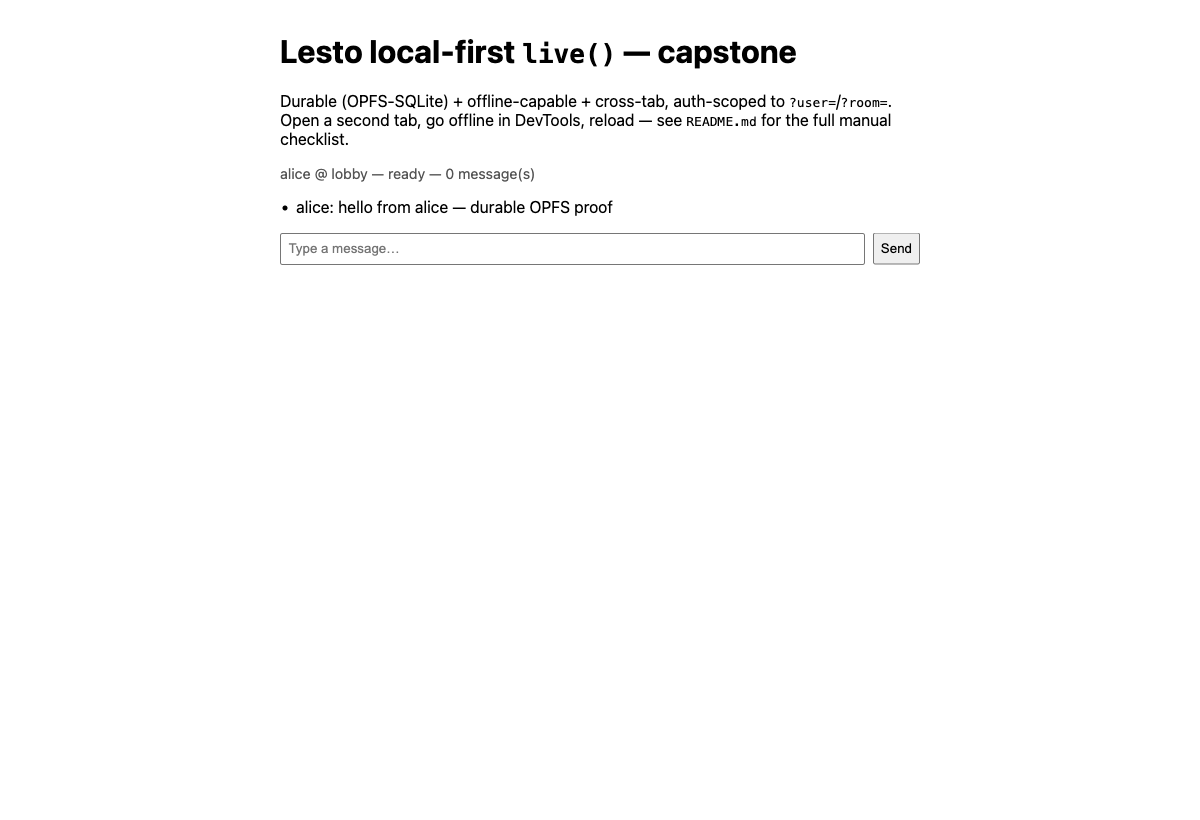
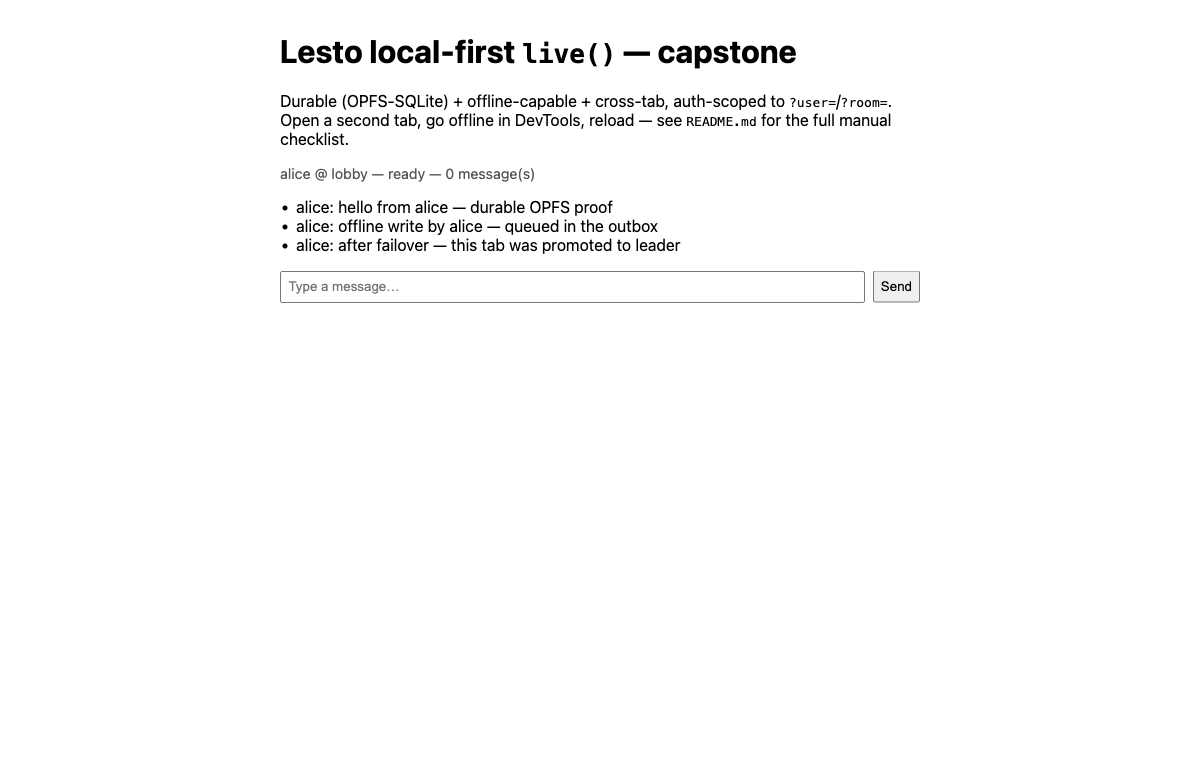
docs(live): correct capstone durability claims (flash-of-empty first paint, offline-reload boundary, filed-not-live CI gate) + regenerate genuine blocked-route evidence with a network-log proof

diff --git a/examples/live-capstone/test/acceptance.pg.ts b/examples/live-capstone/test/acceptance.pg.ts
@@ -16,10 +16,13 @@
  *        bun examples/live-capstone/test/acceptance.pg.ts
  *
  * Exits 0 on success, 1 on any failed assertion (so CI gates on it). CI wires this as the
- * `live-capstone-acceptance` job. The browser-only guarantees (OPFS durability across reload, the
- * cross-tab BroadcastChannel relay + failover) are proven by `@lesto/live`'s injected-seam unit tests
- * + the manual browser checklist in `README.md` — the ratified fork-A scope; this gate proves the
- * server/wire half AND drives the REAL client store/outbox/consumer for the offline-reconcile leg.
+ * `live-capstone-acceptance` job. This gate proves the server/wire half AND drives the REAL client
+ * store/outbox/consumer for the offline-reconcile leg — but over Node SQLite (`openSqlite`), NOT the
+ * browser OPFS engine. The genuinely browser-only guarantees (the OPFS engine opening + durability
+ * across a real reload, the cross-tab BroadcastChannel relay + failover) are the BROWSER's job: the
+ * `@lesto/live` injected-seam unit tests prove the coordination LOGIC, and the recorded manual run
+ * (`evidence/`) + the FILED headless-browser smoke `L-2e410682` (not yet in CI) prove the engine —
+ * the ratified fork-A scope, corrected after the Inc9 P0 (the OPFS engine had never run in a browser).
  */
 
 import { rm } from "node:fs/promises";
@@ -464,8 +467,9 @@ async function main(): Promise<void> {
 
     // ---- 8. Reload rebuild (real store logic over Node SQLite, no live echo — deterministic) ------
     // NB: this reopens the store over `openSqlite` (Node has no OPFS), so it exercises the store's
-    // rehydration LOGIC, not the browser OPFS engine — that engine is covered by the browser smoke
-    // (L-2e410682) and the recorded evidence run. The logic above the handle is identical either way.
+    // rehydration LOGIC, not the browser OPFS engine — that engine is covered by the recorded evidence
+    // run and the FILED browser smoke L-2e410682 (not yet in CI). The logic above the handle is
+    // identical either way.
     // 8a: a PENDING offline write survives reload and re-queues.
     const pendingFile = tmpFile();
     tmpFiles.push(pendingFile);

diff --git a/packages/live/vitest.config.ts b/packages/live/vitest.config.ts
@@ -24,16 +24,12 @@ export default defineConfig({
       // `opfs-sqlite.ts` (spawns a real `Worker`) and `opfs-worker.ts` (dynamic-imports
       // `@sqlite.org/sqlite-wasm` and installs the OPFS SAHPool VFS — Worker-only) are
       // coverage-excluded like `@lesto/runtime`'s `sqlite-drivers.ts`: browser-only wiring that
-      // cannot run under Node/vitest. Everything they decide is tested elsewhere — the request
-      // correlation in `opfs-rpc.ts` (`test/opfs-rpc.test.ts`) and the atomic rows+cursor
-      // transaction in `sqlite-store.ts` against `openSqlite`. No exclusion without a real gate:
-      // the end-to-end browser boot of these two is covered by the Playwright smoke (L-2e410682).
-      exclude: [
-        "src/index.ts",
-        "src/opfs-sqlite.ts",
-        "src/opfs-worker.ts",
-        "**/live-protocol/**",
-      ],
+      // cannot run under Node/vitest. The request correlation they rely on IS tested — `opfs-rpc.ts`
+      // (`test/opfs-rpc.test.ts`), and the atomic rows+cursor transaction in `sqlite-store.ts`
+      // against `openSqlite`. Their end-to-end browser boot is NOT yet in CI: it has one recorded
+      // manual run (`examples/live-capstone/evidence/`) and a FILED headless-browser smoke gate
+      // (`L-2e410682`) not yet built — until that lands, these two exclusions rest on the manual run.
+      exclude: ["src/index.ts", "src/opfs-sqlite.ts", "src/opfs-worker.ts", "**/live-protocol/**"],
       thresholds: {
         lines: 100,
         functions: 100,

diff --git a/examples/live-durable/src/main.ts b/examples/live-durable/src/main.ts
@@ -15,9 +15,11 @@
  * Two payoffs to see by hand:
  *   1. Durable first paint — on reload `render()` paints whatever the store hydrated from OPFS
  *      before the network reconnects.
- *   2. Offline writes — go offline (DevTools → Network → Offline), add a note (it appears
- *      instantly and, on reload, is STILL there — the outbox persisted it), then go back online and
- *      watch it drain to the server and reconcile as the authoritative row under the same id.
+ *   2. Offline writes — go offline (DevTools → Network → Offline), add a note (it appears instantly
+ *      and is durably logged to the OPFS outbox), then go back online and watch it drain to the server
+ *      and reconcile as the authoritative row under the same id. (A reload while FULLY offline can't
+ *      re-fetch the app shell — no service worker ships here — so the reload-survival of a pending
+ *      write is a durable-store property, demonstrable once the shell is reachable.)
  */
 
 import { createLiveMutations, createLiveQuery, createSqliteLiveStore } from "@lesto/live";
@@ -111,7 +113,9 @@ async function main(): Promise<void> {
   // Paint immediately from whatever the durable store hydrated — the authorized slice AND any
   // offline writes the outbox just re-applied — before the live stream below has reconnected.
   render();
-  setStatus(`Ready — ${query.getSnapshot().length} note(s) loaded (${mutations.pending()} pending).`);
+  setStatus(
+    `Ready — ${query.getSnapshot().length} note(s) loaded (${mutations.pending()} pending).`,
+  );
   query.subscribe(render);
 
   // Drain now (an offline write from a prior session may be waiting) and on every reconnect.

diff --git a/examples/live-capstone/vite.config.ts b/examples/live-capstone/vite.config.ts
@@ -23,8 +23,12 @@ export default defineConfig({
     format: "es",
   },
   build: {
-    // Fixed, unhashed output names — one entry, no cache-busting needed, and it keeps the tiny
-    // static file server in `src/app.ts` from having to discover a hashed filename.
+    // Fixed, unhashed names for the MAIN entry (`index.js`) — one entry, no cache-busting needed, so
+    // the tiny static server in `src/app.ts` serves it by a known path. NOTE this does NOT cover the
+    // WORKER sub-bundle (that's `worker.rollupOptions`, not this one): the worker chunk + the sqlite
+    // engine + the `.wasm` under `/assets/` ARE content-hashed. That's fine — the static server serves
+    // by request path and the hashed worker URL is baked into the main bundle by Vite — but it means
+    // the unhashed main `index.js` should be sent no-cache (a caching follow-up is filed on the board).
     rollupOptions: {
       output: {
         entryFileNames: "[name].js",

diff --git a/examples/live-durable/vite.config.ts b/examples/live-durable/vite.config.ts
@@ -21,9 +21,10 @@ export default defineConfig({
     format: "es",
   },
   build: {
-    // Fixed, unhashed output names — this example has one entry and no need for
-    // cache-busting, and it keeps the tiny static file server in `src/app.ts` from having to
-    // discover a hashed filename.
+    // Fixed, unhashed names for the MAIN entry (`index.js`) — one entry, no cache-busting, so the
+    // static server serves it by a known path. This does NOT cover the WORKER sub-bundle
+    // (`worker.rollupOptions`): the worker chunk + sqlite engine + `.wasm` under `/assets/` ARE
+    // content-hashed (fine — served by request path, URL baked into the main bundle by Vite).
     rollupOptions: {
       output: {
         entryFileNames: "[name].js",

diff --git a/examples/live-capstone/evidence/README.md b/examples/live-capstone/evidence/README.md
@@ -3,7 +3,7 @@
 The recorded real-browser execution of [`../README.md`](../README.md)'s **manual browser
 checklist** — the epic-closure evidence the Tier-4 v1 capstone ratification (`L-b1501de9`, fork A)
 required for the browser-only half the sandbox + the bun/PG acceptance gate cannot execute (OPFS
-durable first paint, offline-write-survives, cross-tab leader/follower + failover).
+durable first paint, offline-write optimistic + durable-log, cross-tab leader/follower + failover).
 
 - **When:** 2026-07-03 (UTC), against `main`.
 - **How:** a real headed **Chromium 149** driven over the Playwright MCP (the same "real browser or
@@ -38,14 +38,23 @@ Loaded `?user=alice&room=lobby`. Status: **`alice @ lobby — ready — 0 messag
 errors** (contrast: the pre-Inc9 load showed the `OpfsSqliteError`). A worker-side OPFS probe
 confirmed the SAHPool opened and persisted real bytes (6 pooled files / ~80 KB).
 
-### 1. Durable first paint  →  `01-message-sent.png`, `04-durable-paint-server-blocked.png`
+### 1. Durable first paint  →  `01-message-sent.png`, `04-durable-paint-server-blocked.png`, `durability-network-proof.json`
 
-- Sent `"hello from alice — durable OPFS proof"`; it painted in the list immediately (`01`).
-- **Airtight source isolation:** reloaded with the browser online **but every server data route
-  blocked** at the network layer (`route.abort()` on `/__lesto/live-data**` and `/messages**`), so
-  the app shell loads but no row can arrive over the wire. The message **still painted** from the
-  durable store (`04`). With the server data stream provably unreachable, OPFS is the only possible
-  source — this is the durable-first-paint guarantee, proven rather than asserted.
+- Sent `"hello from alice — durable OPFS proof"`; it painted in the list (`01`).
+- **What "first paint" actually looks like (honest):** on reload the very first `render()` runs
+  against a *fresh empty* in-memory store (the durable rows haven't loaded yet — the OPFS worker must
+  boot + the ~940 KB wasm compile + hydrate), so there is a brief empty frame, then the durable rows
+  paint one async hop later. This is always **before the SSE stream connects** — by construction, the
+  leader opens the stream only after the store attaches (`cross-tab.ts`), not by winning a race. The
+  `— 0 message(s)` count in every post-reload screenshot is that empty init-time snapshot; the **list**
+  is authoritative.
+- **Source isolation (the real proof):** reloaded online **but with both server data routes aborted at
+  the network layer** (`route.abort()` on `/__lesto/live-data**` and `/messages**`). All **3 durable
+  rows still painted**, while the SSE subscription failed with `net::ERR_FAILED` — captured in
+  [`durability-network-proof.json`](./durability-network-proof.json) (the aborted-request record is the
+  load-bearing artifact; a screenshot of a reload looks identical whether or not the wire was blocked).
+  Screenshot `04` shows the 3 rows under that blocked condition. With the wire provably unreachable and
+  a single tab + no service worker (see premises in the JSON), OPFS is the only possible source.
 
 ### 2. Offline writes  →  `03-offline-write-optimistic.png`
 
@@ -54,6 +63,11 @@ confirmed the SAHPool opened and persisted real bytes (6 pooled files / ~80 KB).
   the expected single console error (`03`).
 - On reconnect, the outbox **drained**: after the network returned, `GET /messages` from the shell
   showed the offline row had reconciled onto the server (verified again end-to-end in step 3's write).
+- **Not demonstrated in-browser here:** *reload-survival of a pending offline write*. A fully-offline
+  `page.reload()` fails at the document fetch (no service worker ships the app shell — boundary #1),
+  so this run could not reload with a still-pending write. That property (a pending write re-queues, a
+  held write rebuilds as held) is proven by the acceptance gate's check 8a/8b — over **Node SQLite**,
+  not the OPFS engine — and awaits the filed browser smoke `L-2e410682` for a browser proof.
 
 ### 3. Cross-tab leader / follower + failover  →  `05-follower-mirrors-leader.png`, `06-follower-promoted-after-failover.png`
 
@@ -79,20 +93,40 @@ a broken room.
 
 1. **A fully-offline *reload* can't re-fetch the app shell.** This example ships no service worker, so
    `page.reload()` while offline fails at the *document* fetch (`ERR_INTERNET_DISCONNECTED`) — the
-   README's "go offline, reload" step depends on the browser's HTTP disk cache serving the shell,
-   which this static server doesn't guarantee. The **data** durability is unaffected and is proven
-   airtight in step 1 by blocking only the data routes while letting the shell load. A PWA
-   shell-cache is the natural follow-up if true offline cold-start is wanted.
-2. **The status line's `— N message(s)` count is a snapshot-timing artifact.** It is computed once at
-   init from `query.getSnapshot().length` before the async leader store has attached, so it can read
-   `0` while the list itself then repaints the durable rows. Cosmetic (the list is correct); noted so
-   a future reader doesn't mistake it for data loss.
+   README's original "go offline, reload" step depends on the browser's HTTP disk cache serving the
+   shell, which this static server doesn't guarantee (the checklist was corrected to not claim it). The
+   **data** durability is unaffected and is proven in step 1 by blocking only the data routes while
+   letting the shell load online. A PWA shell-cache is the natural follow-up if true offline cold-start
+   is wanted.
+2. **The empty first frame is real, not just a cosmetic count.** The `— 0 message(s)` status is
+   computed once at init from `query.getSnapshot().length` **before** the async leader store attaches —
+   and the first `render()` also runs against that same empty snapshot, so the list's *first* paint is
+   empty too; the durable rows are the **second** paint (a tick later, after the OPFS worker boots).
+   The count is not hiding data loss (the list ends correct), but it honestly witnesses that "durable
+   first paint" is "durable *second* paint, after an empty frame" — always still before the stream
+   connects. A synchronous durable hydrate (or a "loading…" placeholder like `live-durable` uses) would
+   remove the empty frame.
 3. **A benign sqlite-wasm warning appears on every load** (`console-full.log`): *"Ignoring inability to
    install OPFS sqlite3_vfs: … Missing SharedArrayBuffer and/or Atomics … COOP/COEP …"*. This is
    sqlite-wasm's init probing the **plain** SharedArrayBuffer-based `opfs` VFS, which we deliberately do
    **not** use — the durable store runs on the **SAHPool** VFS, which needs no COOP/COEP headers and
    installed fine (the 80 KB persisted above is the proof). Expected, not a failure; it is precisely
    why SAHPool-in-a-Worker was chosen over the header-gated alternatives.
+
+## Artifact provenance (what is a file vs. a live observation)
+
+Honest accounting so a future reader knows what to trust:
+
+- **File-backed:** the 7 screenshots, [`durability-network-proof.json`](./durability-network-proof.json)
+  (the aborted-route + rendered-rows capture — the load-bearing durability artifact), and
+  `console-full.log`.
+- **`console-full.log` is the FINAL page's console dump** (the bonus authz page), NOT the whole run —
+  it holds the two benign sqlite-wasm warnings + bob's deliberate 403. So "0 console errors" in step 0
+  describes that step as observed live, not this file.
+- **Live-only observations** (seen in the Playwright tool output at capture time, not saved as separate
+  files): the step-0 OPFS byte probe ("6 pooled files / ~80 KB"), and the step-3 follower "opened no
+  `/__lesto/live-data` of its own" network check. The filed browser smoke `L-2e410682` is what turns
+  these into repeatable CI assertions.
 
 ## The automated regression gate this run motivated
 

diff --git a/examples/live-capstone/README.md b/examples/live-capstone/README.md
@@ -18,8 +18,9 @@ What this app puts under one roof (no earlier increment combined all three):
   may not see is refused at subscribe AND on every re-auth tick), delete-from-shape on a non-PK column
   under `REPLICA IDENTITY FULL`, both membership-revocation mechanisms, and LSN-exact resume vs
   re-snapshot on a failover.
-- **Offline writes** — a write made offline is shown at once, survives reload (OPFS), and reconciles
-  through the app's **normal authorized `POST`** on reconnect; a rejected write rolls back.
+- **Offline writes** — a write made offline is shown at once, is durably logged to OPFS (so it
+  survives a reload where the app shell is available), and reconciles through the app's **normal
+  authorized `POST`** on reconnect; a rejected write rolls back.
 - **Cross-tab** — one leader tab holds the sync connection + durable store; the rest mirror it over
   BroadcastChannel; leadership fails over on tab close.
 
@@ -93,21 +94,27 @@ runs in a **dedicated Worker** (`@lesto/live/opfs` → `opfs-worker.ts`), becaus
 `createSyncAccessHandle` is Worker-only in every browser (booting it on the main thread was the Inc9
 P0 — see [`evidence/`](./evidence/README.md)). After `bun run serve`, in a real browser:
 
-1. **Durable first paint** — send a message, reload: it repaints instantly from OPFS before the stream
-   reconnects. (To prove OPFS is the source and not the wire, block the server's data routes and
-   reload — it still paints; see the evidence.)
-2. **Offline writes** — DevTools → Network → Offline, send a message (it appears at once; the outbox
-   persisted it to OPFS), go back online, watch it drain to `POST /messages` and reconcile under its
-   client-generated id.
+1. **Durable first paint** — send a message, reload: the durable rows repaint from OPFS one async hop
+   after an initially-empty first frame (while the OPFS worker boots + hydrates), and always **before
+   the stream connects** (the leader opens the SSE only after the store attaches). To prove OPFS — not
+   the wire — is the source, block the server's data routes and reload: it still paints (see the
+   evidence's network-log proof).
+2. **Offline writes** — DevTools → Network → Offline, send a message: it appears at once and is durably
+   logged to OPFS; go back online and watch it drain to `POST /messages` and reconcile under its
+   client-generated id. (A *reload while fully offline* can't re-fetch the app shell — no service
+   worker ships here — so the reload-survival of a pending write is proven over Node SQLite in the gate
+   below, not yet in a browser.)
 3. **Cross-tab** — open a second tab on the same `?room=`: a follower mirrors the leader with no
    connection of its own. Close the leader tab; the follower is promoted and resumes the stream.
 
 > **Recorded run:** [`evidence/`](./evidence/README.md) holds a real Chromium 149 execution of this
-> checklist (screenshots + notes) as the epic-closure evidence (`L-aa9779f5`) — including the airtight
-> "block the server, still paints from OPFS" durability proof and two honest boundaries (a
-> fully-offline *reload* needs a service-worker shell cache this example doesn't ship; the status
-> line's message count is a cosmetic snapshot-timing artifact). The CI regression gate for this class
-> is the headless-browser smoke `L-2e410682`.
+> checklist (screenshots + a network-log proof + notes) as the epic-closure evidence (`L-aa9779f5`) —
+> including the "block the server's data routes, still paints from OPFS" durability proof (the
+> aborted-request log is the load-bearing artifact — a screenshot alone can't show the wire was
+> blocked) and two honest boundaries (a fully-offline *reload* needs a service-worker shell cache this
+> example doesn't ship; the status line's message count reads the empty init-time snapshot, so it
+> witnesses the empty first frame — the list is authoritative). The regression gate for this class is
+> the **filed** headless-browser smoke `L-2e410682`, not yet in CI.
 
 > **Known boundary (`L-f5a4f807`, a filed child of this capstone):** the offline outbox lives on the
 > LEADER's store, so a FOLLOWER tab's send takes the plain authorized `POST` and is **not queued** —

diff --git a/docs/adr/0042-local-first-sync-tier-4.md b/docs/adr/0042-local-first-sync-tier-4.md
@@ -614,7 +614,9 @@ Both browser primitives (Web Locks, BroadcastChannel) are reached through an inj
 test-fakeable with an in-process lock queue + message bus. The result is the same `LiveQuery` handle
 `createLiveQuery` returns, so `@lesto/live/react`'s `useLiveQuery(() => createCrossTabLiveQuery(def, opts),
 deps)` binds it with no new hook. The end-to-end multi-tab acceptance (Inc8, `L-b1501de9`) exercises the
-durable leader store + the shared-OPFS outbox under real failover.
+durable (SQLite) outbox under real failover. (As-built note per the 2026-07-03 errata below: the
+automated acceptance exercises the store/outbox LOGIC over Node SQLite — the OPFS engine itself is
+browser-only and is covered by the recorded evidence run + the filed `L-2e410682` smoke, not here.)
 
 ### 2026-07-03 — errata: the OPFS engine MUST run in a dedicated Worker (Inc9 P0, `L-565a4b33`)
 
@@ -636,8 +638,9 @@ request-id-correlated `postMessage` RPC (`opfs-rpc.ts`) shaped exactly like the 
 `exec`/`prepare` pair, wrapped by the **unchanged** `adaptSyncSqlite` — so the store/outbox/cursor
 layers above the handle are untouched (the seam was already async). The RPC client is unit-tested
 against a fake port pair; the two irreducibly-browser halves (the `new Worker` spawn and the
-worker-side sqlite binding) stay coverage-excluded, but now with a **replacement gate**: the
-headless-browser smoke `L-2e410682` boots the real engine end-to-end in CI. Rejected: the
+worker-side sqlite binding) stay coverage-excluded, backed today by ONE recorded manual browser run
+(`examples/live-capstone/evidence/`) and a **FILED replacement gate not yet built**: the
+headless-browser smoke `L-2e410682` will boot the real engine end-to-end in CI. Rejected: the
 `sqlite3-worker1` promiser — it does not open SAHPool, and its fallback "opfs" VFS needs
 SharedArrayBuffer → COOP/COEP, the header burden SAHPool was chosen to avoid. Two honest boundaries the
 evidence records: a *fully-offline reload* still needs the app shell cached (no service worker ships in